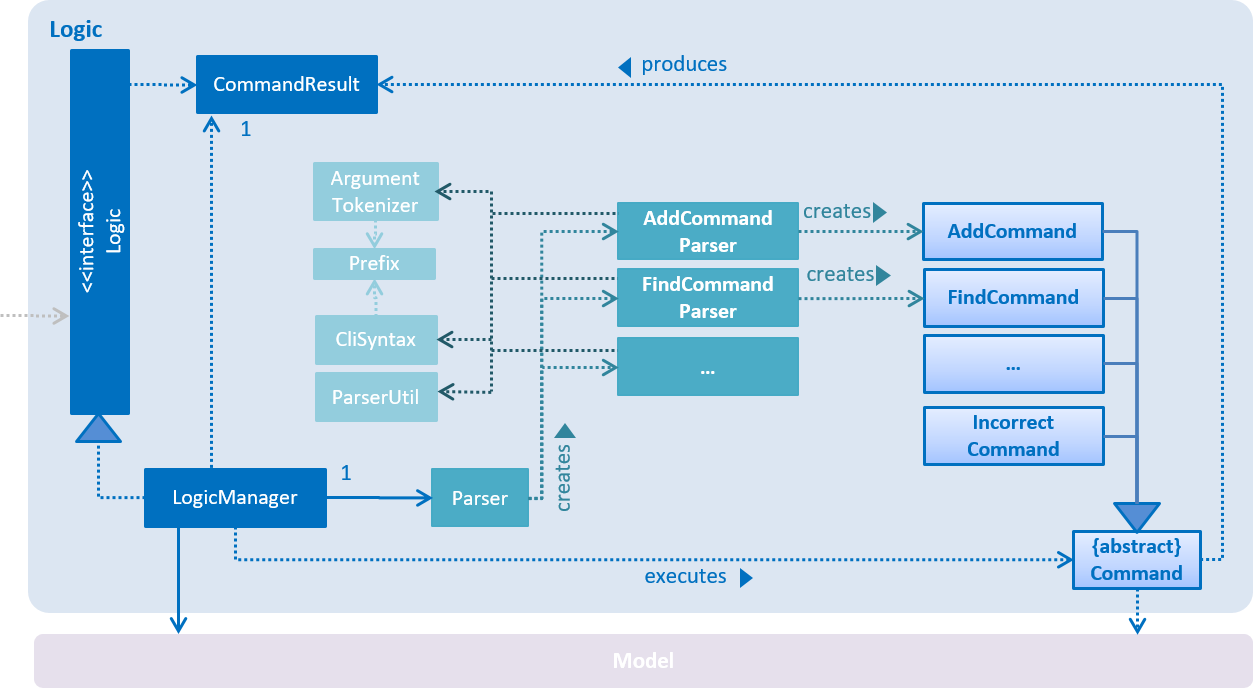
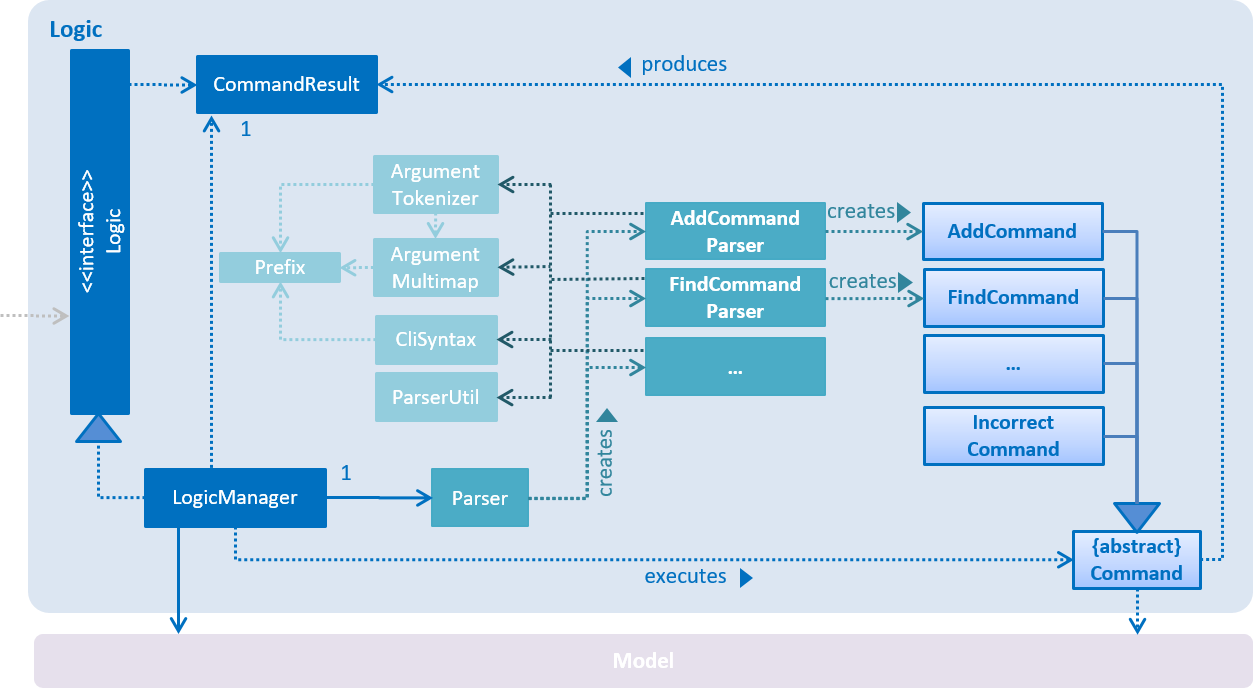
Update Logic class diagram with ArgumentMultimap class
The Logic class diagram in the developer guide does not reflect the
updated dependencies between ArgumentTokenizer, ArgumentMultimap,
Prefix, and command parser classes.

Let's update the Logic class diagram.

Changed region(s): [[0.1556, 0.2137, 0.747, 0.7326]]

diff --git a/src/main/java/seedu/address/logic/parser/ArgumentMultimap.java b/src/main/java/seedu/address/logic/parser/ArgumentMultimap.java
@@ -16,14 +16,7 @@ import java.util.Optional;
 public class ArgumentMultimap {
 
     /** Prefixes mapped to their respective arguments**/
-    private final Map<Prefix, List<String>> argMultimap;
-
-    /**
-     * Creates an ArgumentMultimap object that stores the mapping of prefixes to their respective arguments.
-     */
-    public ArgumentMultimap() {
-        argMultimap = new HashMap<>();
-    }
+    private final Map<Prefix, List<String>> argMultimap = new HashMap<>();;
 
     /**
      * Associates the specified argument value with {@code prefix} key in this map.
@@ -62,7 +55,6 @@ public class ArgumentMultimap {
      * Returns the preamble (text before the first valid prefix). Trims any leading/trailing spaces.
      */
     public String getPreamble() {
-        Optional<String> storedPreamble = getValue(new Prefix(""));
-        return storedPreamble.orElse("");
+        return getValue(new Prefix("")).orElse("");
     }
 }
